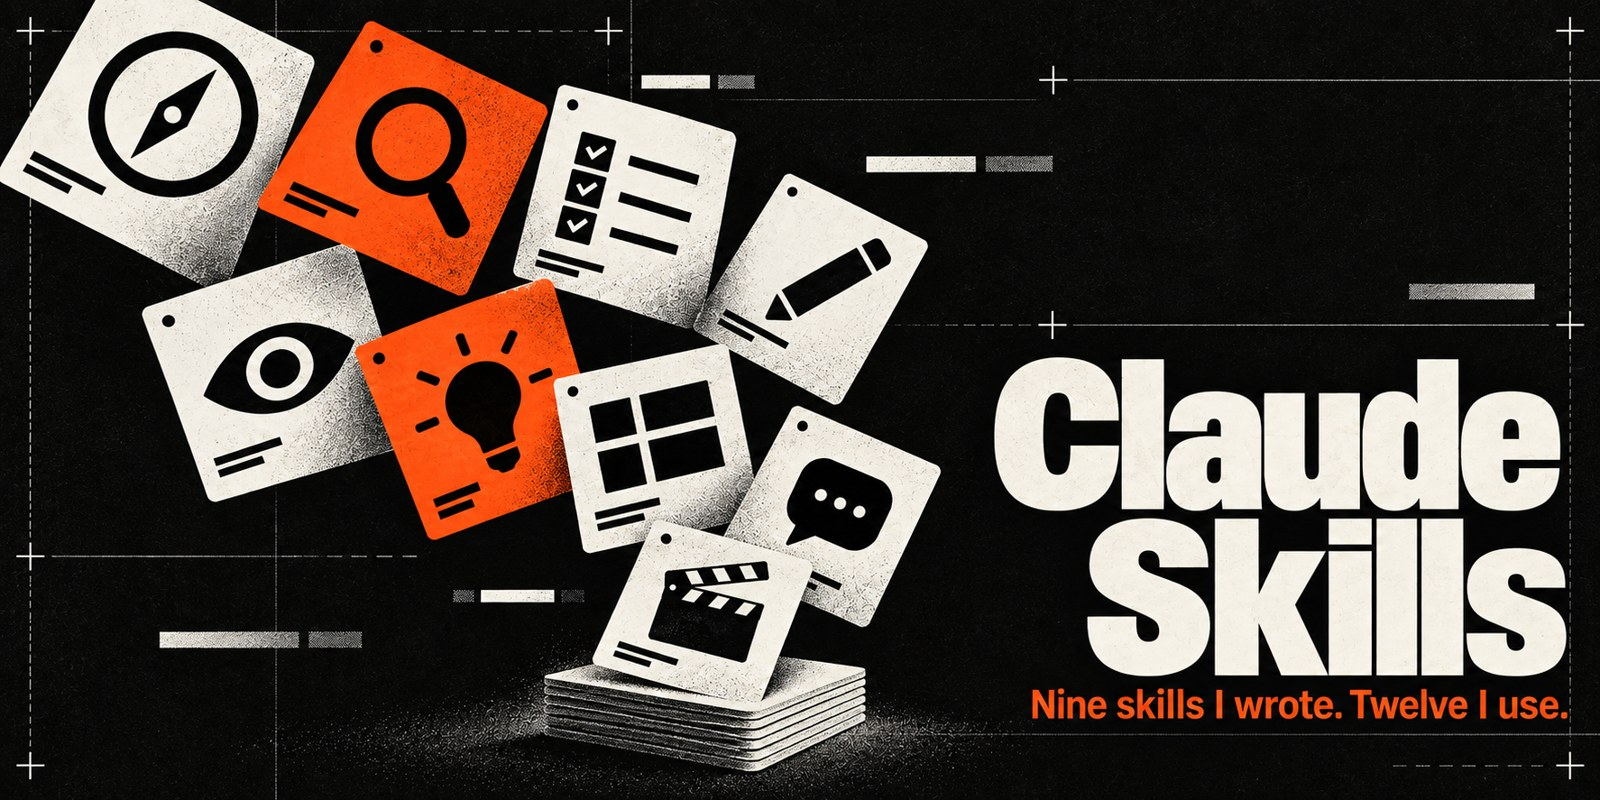
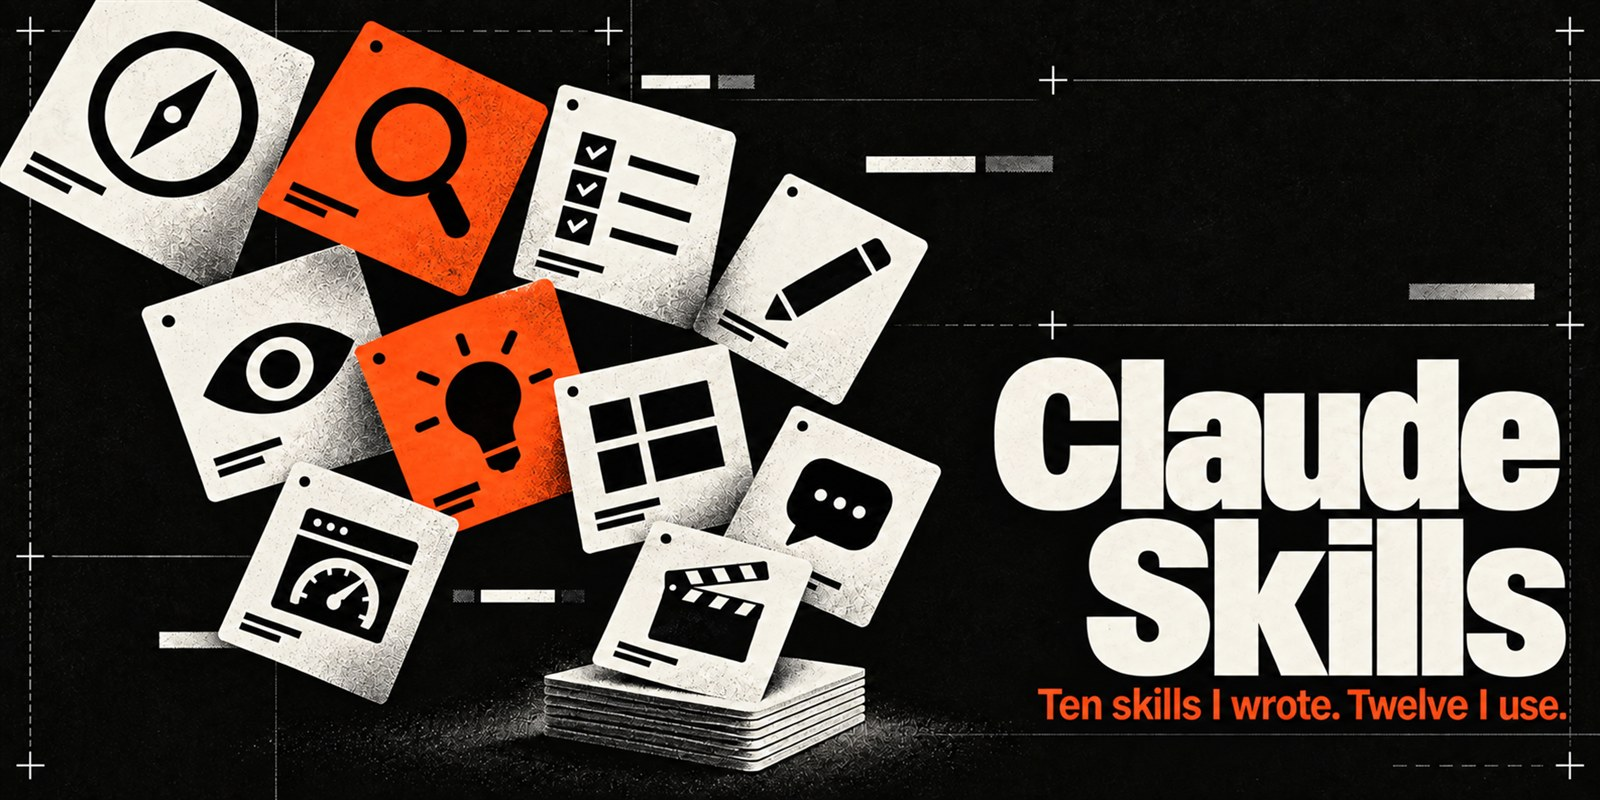
README: cover with ten skills

diff --git a/README.md b/README.md
@@ -1,6 +1,6 @@
 # my-claude-skills
 
-<img src=".github/cover.jpg" width="100%" alt="Claude Skills. Nine skills I wrote. Twelve I use.">
+<img src=".github/cover.jpg" width="100%" alt="Claude Skills. Ten skills I wrote. Twelve I use.">
 
 Skills for [Claude Code](https://claude.ai/claude-code) — the ones I wrote, and the third-party ones
 I actually use, kept in one place so my setup is reproducible.
